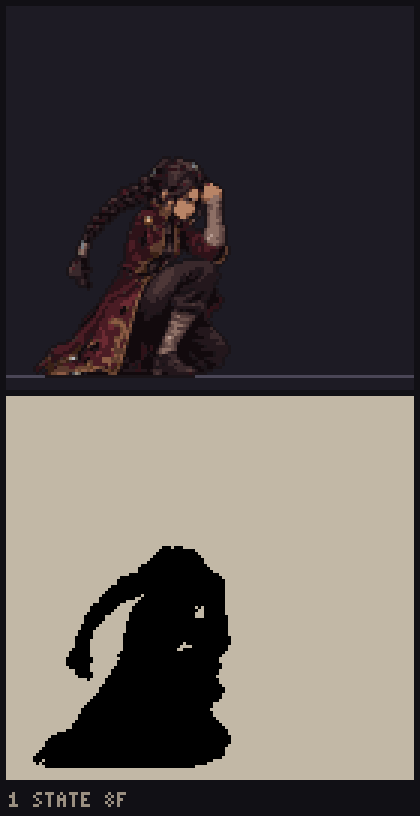
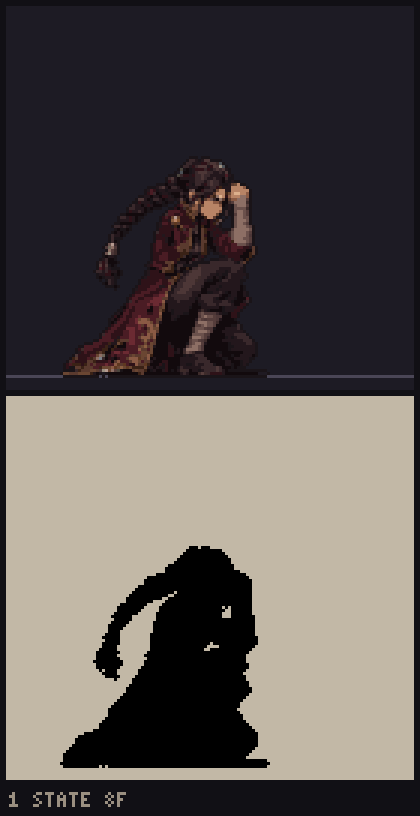
Regenerated idle in the game (warm skin, bronze trim); floor bands that join figures are stripped, lying bodies keep their underside
- stripFloorLine: tolerates a ragged bottom edge and one band joining several figures; a row
  only counts when it is much wider than the body above or juts past it (only feet touch the
  floor), so a dark body lying on the floor is never cut; only near-black/grey pixels removed
- idle reviewed (skin 11%, was 6-7%); tests for joined bands and lying bodies

Claude-Session: https://claude.ai/code/session_01AKGexPXdP4PDQG8Yjd4zZT

diff --git a/tools/art/convert.ts b/tools/art/convert.ts
@@ -282,11 +282,13 @@ export function defringe(img: Rgba, ring = 2): Rgba {
 }
 
 /**
- * Floor lines: image models often draw a thin near-black ground line under each figure. From the
- * figure's bottom upward, a row is part of the line while it spans at least 50% of the figure's
- * width and at least 85% of its pixels are near-black or grey (the line and its anti-aliased
- * edges); boot rows are too narrow and coat rows too red, so the first of those stops it.
- * Returns the number of rows removed.
+ * Floor lines: image models often draw a near-black ground line or shadow band under the figures
+ * (sometimes one band joining all of them). Within `maxRows` of the figure's bottom, a row is
+ * line-like when it spans at least 50% of the figure's width, at least 85% of its pixels are
+ * near-black or grey, and it covers 1.5 times the width of the row 8% of the figure's height above
+ * (only feet touch the floor; a body lying there is as wide higher up); ragged rows are allowed (scanning stops after 3 rows in a row
+ * that aren't line-like). From the highest line-like row down, the near-black and grey pixels
+ * leave the mask (boot colours stay). Returns the number of rows cleared.
  */
 export function stripFloorLine(img: Rgba, mask: Uint8Array, fig: Figure, maxRows: number): number {
   const { x0, x1, y0, y1 } = fig.box;
@@ -296,21 +298,57 @@ export function stripFloorLine(img: Rgba, mask: Uint8Array, fig: Figure, maxRows
     const b = img.data[i * 4 + 2]!;
     return Math.max(r, g, b) <= 70 || Math.max(r, g, b) - Math.min(r, g, b) <= 16;
   };
-  let removed = 0;
-  for (let y = y1 - 1; y >= y0 && removed < maxRows; y--) {
+  const coverage = (y: number) => {
     let n = 0;
     let like = 0;
+    let lo = x1;
+    let hi = x0 - 1;
     for (let x = x0; x < x1; x++) {
       const i = y * img.w + x;
       if (!mask[i]) continue;
       n++;
+      lo = Math.min(lo, x);
+      hi = Math.max(hi, x);
       if (lineLike(i)) like++;
     }
-    if (n < (x1 - x0) * 0.5 || like < n * 0.85) break;
-    for (let x = x0; x < x1; x++) mask[y * img.w + x] = 0;
-    removed++;
+    return { n, like, lo, hi };
+  };
+  /** Does row y stick out past everything in the `ref` rows above it (a line drawn wider than the figure)? */
+  const juts = (y: number, lo: number, hi: number) => {
+    let alo = x1;
+    let ahi = x0 - 1;
+    for (let yy = Math.max(y0, y - ref); yy < y; yy++) {
+      const c = coverage(yy);
+      alo = Math.min(alo, c.lo);
+      ahi = Math.max(ahi, c.hi);
+    }
+    const m = Math.max(2, Math.round((x1 - x0) * 0.03));
+    return lo < alo - m || hi > ahi + m;
+  };
+  // A band is much wider than what stands on it (only feet touch the floor); a body lying on the
+  // floor is as wide at its bottom as a little higher up. Ragged rows must show that contrast.
+  const ref = Math.max(2, Math.round((y1 - y0) * 0.08));
+  let top = -1;
+  let misses = 0;
+  for (let y = y1 - 1; y >= Math.max(y0, y1 - maxRows); y--) {
+    const { n, like, lo, hi } = coverage(y);
+    const base = n >= (x1 - x0) * 0.5 && like >= n * 0.85;
+    const wider = base && y - ref >= y0 && (n >= coverage(y - ref).n * 1.5 || juts(y, lo, hi));
+    if (base && wider) {
+      top = y;
+      misses = 0;
+    } else {
+      if (top >= 0 && ++misses >= 3) break;
+      if (top < 0 && y1 - y > 6) break;
+    }
   }
-  return removed;
+  if (top < 0) return 0;
+  for (let y = top; y < y1; y++)
+    for (let x = x0; x < x1; x++) {
+      const i = y * img.w + x;
+      if (mask[i] && lineLike(i)) mask[i] = 0;
+    }
+  return y1 - top;
 }
 
 /**

diff --git a/tests/converter.test.ts b/tests/converter.test.ts
@@ -267,3 +267,28 @@ describe('accents', () => {
     expect(s.px[1 * 4 + 1]).toBe(eye);
   });
 });
+
+describe('floor bands', () => {
+  it('one shadow band joining several figures is stripped, so they split apart', () => {
+    const img = whiteSheet(120, 60);
+    for (const x0 of [10, 50, 90]) {
+      rect(img, x0, 5, 16, 40, [90, 20, 30]);
+      rect(img, x0 - 2, 45, 6, 5, [100, 70, 60]); // boots
+      rect(img, x0 + 12, 45, 6, 5, [100, 70, 60]);
+    }
+    rect(img, 4, 50, 112, 4, [35, 25, 30]); // one band under all three
+    rect(img, 30, 54, 40, 1, [180, 180, 180]); // ragged grey bottom edge
+    const mask = foregroundMask(img);
+    expect(splitFigures(mask, 120, 60).length).toBe(1);
+    stripFloorLine(img, mask, splitFigures(mask, 120, 60)[0]!, 10);
+    expect(splitFigures(mask, 120, 60).length).toBe(3);
+  });
+  it('a dark body lying on the floor keeps its underside', () => {
+    const img = whiteSheet(80, 40);
+    rect(img, 10, 20, 60, 6, [90, 20, 30]); // lying coat
+    rect(img, 10, 26, 60, 4, [40, 30, 35]); // dark trousers and hair along the floor
+    const mask = foregroundMask(img);
+    stripFloorLine(img, mask, splitFigures(mask, 80, 40)[0]!, 10);
+    expect(mask[27 * 80 + 30]).toBe(1);
+  });
+});

diff --git a/docs/art_review/rook_batch_02.md b/docs/art_review/rook_batch_02.md
@@ -10,34 +10,34 @@ Scale 0.2134 (anchor → 108 px). Image `3e3a404f8f4a` (`rook_intro_01.jpeg`).
 
 | # | Pose | Size | Colour error (mean / p95 ΔE) | Colours | Checks | Visual | Verdict |
 | --- | --- | --- | --- | --- | --- | --- | --- |
-| 1 | anchor | 82x108 | 4.0 / 7.6 | coat 24%, gold 3%, skin 11%, darks 49%, wraps 10% | ok | ok | PASS |
-| 2 | intro 0 | 47x112 | 4.1 / 8.2 | coat 29%, gold 3%, skin 11%, darks 42%, wraps 13% | ok | ok | PASS |
+| 1 | anchor | 82x108 | 4.0 / 7.6 | coat 25%, gold 3%, skin 11%, darks 49%, wraps 10% | ok | ok | PASS |
+| 2 | intro 0 | 47x110 | 4.2 / 8.3 | coat 29%, gold 4%, skin 11%, darks 40%, wraps 13% | ok | ok | PASS |
 | 3 | intro 1 | 56x112 | 4.1 / 8.1 | coat 29%, gold 4%, skin 11%, darks 41%, wraps 12% | ok | ok | PASS |
 | 4 | intro 2 | 65x104 | 4.0 / 7.8 | coat 25%, gold 3%, skin 10%, darks 50%, wraps 10% | ok | ok | PASS |
 | 5 | intro 3 | 75x108 | 4.0 / 7.7 | coat 26%, gold 4%, skin 11%, darks 48%, wraps 10% | ok | ok | PASS |
 
 ## rook_b02_01.png
 
-Scale 0.1971 (anchor → 108 px). Image `d7f6a12ce2aa` (`rook_b02_01.jpeg`).
+Scale 0.1946 (anchor → 108 px). Image `d7f6a12ce2aa` (`rook_b02_01.jpeg`).
 
 | # | Pose | Size | Colour error (mean / p95 ΔE) | Colours | Checks | Visual | Verdict |
 | --- | --- | --- | --- | --- | --- | --- | --- |
-| 1 | anchor | 80x108 | 4.2 / 7.8 | coat 24%, gold 4%, skin 11%, darks 44%, wraps 12% | ok | ok | PASS |
-| 2 | crouch 0 | 65x87 | 4.2 / 8.1 | coat 24%, gold 3%, skin 11%, darks 47%, wraps 11% | ok | ok | PASS |
-| 3 | crouch 1 | 67x73 | 4.1 / 8.1 | coat 25%, gold 3%, skin 9%, darks 52%, wraps 8% | ok | ok | PASS |
-| 4 | block_crouch 0 | 64x72 | 4.2 / 8.1 | coat 24%, gold 2%, skin 9%, darks 52%, wraps 9% | ok | ok | PASS |
+| 1 | anchor | 78x107 | 4.2 / 7.9 | coat 24%, gold 4%, skin 12%, darks 45%, wraps 12% | ok | ok | PASS |
+| 2 | crouch 0 | 62x85 | 4.3 / 8.0 | coat 23%, gold 3%, skin 11%, darks 47%, wraps 10% | ok | ok | PASS |
+| 3 | crouch 1 | 68x72 | 4.1 / 8.0 | coat 25%, gold 3%, skin 9%, darks 51%, wraps 8% | ok | ok | PASS |
+| 4 | block_crouch 0 | 68x72 | 4.1 / 7.9 | coat 24%, gold 3%, skin 9%, darks 52%, wraps 9% | ok | ok | PASS |
 
 ## rook_b02_02.png
 
-Scale 0.2333 (anchor → 108 px). Image `10d4827a9627` (`rook_b02_02.jpeg`).
+Scale 0.2328 (anchor → 108 px). Image `10d4827a9627` (`rook_b02_02.jpeg`).
 
 | # | Pose | Size | Colour error (mean / p95 ΔE) | Colours | Checks | Visual | Verdict |
 | --- | --- | --- | --- | --- | --- | --- | --- |
-| 1 | anchor | 76x108 | 4.0 / 7.7 | coat 23%, gold 4%, skin 10%, darks 50%, wraps 11% | ok | ok | PASS |
-| 2 | block_stand 0 | 70x106 | 4.0 / 7.7 | coat 22%, gold 3%, skin 11%, darks 50%, wraps 11% | ok | ok | PASS |
-| 3 | blockstun_stand 0 | 65x102 | 4.0 / 7.8 | coat 25%, gold 2%, skin 10%, darks 49%, wraps 12% | ok | ok | PASS |
-| 4 | hitstun_high 0 | 70x102 | 4.2 / 8.3 | coat 25%, gold 3%, skin 12%, darks 48%, wraps 10% | ok | ok | PASS |
-| 5 | hitstun_high 1 | 65x105 | 4.1 / 7.9 | coat 24%, gold 4%, skin 11%, darks 48%, wraps 10% | ok | ok | PASS |
+| 1 | anchor | 76x107 | 4.1 / 7.7 | coat 23%, gold 3%, skin 11%, darks 50%, wraps 11% | ok | ok | PASS |
+| 2 | block_stand 0 | 70x106 | 4.0 / 7.5 | coat 23%, gold 3%, skin 11%, darks 49%, wraps 12% | ok | ok | PASS |
+| 3 | blockstun_stand 0 | 62x101 | 4.1 / 7.8 | coat 25%, gold 2%, skin 10%, darks 49%, wraps 12% | ok | ok | PASS |
+| 4 | hitstun_high 0 | 72x104 | 4.2 / 8.4 | coat 25%, gold 3%, skin 12%, darks 48%, wraps 10% | ok | ok | PASS |
+| 5 | hitstun_high 1 | 66x105 | 4.1 / 8.0 | coat 23%, gold 4%, skin 12%, darks 49%, wraps 10% | ok | ok | PASS |
 
 ## rook_b02_03.png
 
@@ -45,31 +45,31 @@ Scale 0.2517 (anchor → 108 px). Image `0904d151a45c` (`rook_b02_03.png`).
 
 | # | Pose | Size | Colour error (mean / p95 ΔE) | Colours | Checks | Visual | Verdict |
 | --- | --- | --- | --- | --- | --- | --- | --- |
-| 1 | anchor | 76x108 | 4.3 / 7.7 | coat 23%, gold 4%, skin 10%, darks 50%, wraps 11% | ok | ok | PASS |
-| 2 | hitstun_mid 0 | 57x85 | 4.3 / 8.3 | coat 19%, gold 1%, skin 6%, darks 60%, wraps 14% | ok | ok | PASS |
-| 3 | hitstun_mid 1 | 74x101 | 4.2 / 7.6 | coat 22%, gold 3%, skin 9%, darks 52%, wraps 12% | ok | ok | PASS |
+| 1 | anchor | 77x108 | 4.3 / 7.6 | coat 24%, gold 4%, skin 10%, darks 49%, wraps 11% | ok | ok | PASS |
+| 2 | hitstun_mid 0 | 57x86 | 4.3 / 8.3 | coat 19%, gold 1%, skin 6%, darks 59%, wraps 14% | ok | ok | PASS |
+| 3 | hitstun_mid 1 | 74x101 | 4.3 / 7.6 | coat 22%, gold 3%, skin 10%, darks 51%, wraps 11% | ok | ok | PASS |
 | 4 | knockdown 0 | 91x101 | 4.1 / 7.7 | coat 23%, gold 4%, skin 8%, darks 53%, wraps 10% | ok | ok | PASS |
-| 5 | knockdown 1 | 101x24 | 4.1 / 8.0 | coat 20%, gold 3%, skin 9%, darks 50%, wraps 15% | ok | ok | PASS |
+| 5 | knockdown 1 | 101x24 | 4.1 / 8.1 | coat 20%, gold 3%, skin 9%, darks 50%, wraps 16% | ok | ok | PASS |
 
 ## rook_wake_up_01.png
 
-Scale 0.2204 (anchor → 108 px). Image `2b1567359bca` (`rook_wake_up_01.jpeg`).
+Scale 0.2191 (anchor → 108 px). Image `2b1567359bca` (`rook_wake_up_01.jpeg`).
 
 | # | Pose | Size | Colour error (mean / p95 ΔE) | Colours | Checks | Visual | Verdict |
 | --- | --- | --- | --- | --- | --- | --- | --- |
-| 1 | anchor | 82x108 | 4.5 / 8.1 | coat 31%, gold 4%, skin 10%, darks 44%, wraps 9% | ok | ok | PASS |
-| 2 | wake_up 0 | 79x66 | 4.5 / 8.2 | coat 31%, gold 2%, skin 8%, darks 47%, wraps 9% | ok | ok | PASS |
-| 3 | wake_up 1 | 70x80 | 4.2 / 7.9 | coat 28%, gold 3%, skin 7%, darks 51%, wraps 8% | ok | ok | PASS |
-| 4 | wake_up 2 | 69x100 | 4.5 / 8.2 | coat 30%, gold 4%, skin 10%, darks 45%, wraps 9% | ok | ok | PASS |
+| 1 | anchor | 81x107 | 4.5 / 8.2 | coat 32%, gold 4%, skin 10%, darks 43%, wraps 9% | ok | ok | PASS |
+| 2 | wake_up 0 | 83x67 | 4.4 / 8.2 | coat 31%, gold 2%, skin 6%, darks 48%, wraps 10% | ok | ok | PASS |
+| 3 | wake_up 1 | 70x81 | 4.2 / 7.9 | coat 27%, gold 3%, skin 7%, darks 51%, wraps 8% | ok | ok | PASS |
+| 4 | wake_up 2 | 69x100 | 4.5 / 8.2 | coat 29%, gold 4%, skin 10%, darks 45%, wraps 9% | ok | ok | PASS |
 
 ## rook_ko_01.png
 
-Scale 0.2318 (anchor → 108 px). Image `4a86415aa92f` (`rook_ko_01.jpeg`).
+Scale 0.2298 (anchor → 108 px). Image `4a86415aa92f` (`rook_ko_01.jpeg`).
 
 | # | Pose | Size | Colour error (mean / p95 ΔE) | Colours | Checks | Visual | Verdict |
 | --- | --- | --- | --- | --- | --- | --- | --- |
-| 1 | anchor | 77x107 | 4.2 / 7.9 | coat 26%, gold 3%, skin 11%, darks 49%, wraps 10% | ok | ok | PASS |
-| 2 | ko 0 | 62x98 | 4.3 / 8.3 | coat 29%, gold 2%, skin 10%, darks 47%, wraps 10% | ok | ok | PASS |
-| 3 | ko 1 | 71x72 | 4.1 / 7.9 | coat 26%, gold 2%, skin 8%, darks 53%, wraps 8% | ok | ok | PASS |
-| 4 | ko 2 | 120x26 | 4.4 / 7.9 | coat 41%, gold 1%, skin 5%, darks 39%, wraps 12% | ok | ok | PASS |
+| 1 | anchor | 77x108 | 4.3 / 7.8 | coat 26%, gold 3%, skin 11%, darks 49%, wraps 10% | ok | ok | PASS |
+| 2 | ko 0 | 62x98 | 4.3 / 8.2 | coat 28%, gold 2%, skin 10%, darks 48%, wraps 10% | ok | ok | PASS |
+| 3 | ko 1 | 71x71 | 4.1 / 8.0 | coat 27%, gold 2%, skin 8%, darks 52%, wraps 9% | ok | ok | PASS |
+| 4 | ko 2 | 122x27 | 4.2 / 7.8 | coat 38%, gold 1%, skin 5%, darks 43%, wraps 11% | ok | ok | PASS |
 

diff --git a/docs/art_review/rook_batch_01.md b/docs/art_review/rook_batch_01.md
@@ -6,15 +6,15 @@ Canonical rook: 79x108 px; coat 24%, gold 5%, skin 9%, darks 49%, wraps 10%.
 
 ## rook_idle_01.png
 
-Scale 0.2007 (anchor → 108 px). Image `222e6a4d5500` (`rook_idle_01.png`).
+Scale 0.2049 (anchor → 108 px). Image `3c8baa8432bc` (`rook_idle_01.jpeg`).
 
 | # | Pose | Size | Colour error (mean / p95 ΔE) | Colours | Checks | Visual | Verdict |
 | --- | --- | --- | --- | --- | --- | --- | --- |
-| 1 | anchor | 78x107 | 4.6 / 8.7 | coat 23%, gold 2%, skin 8%, darks 52%, wraps 15% | warning: wraps 15% (reference 10%) | ok | PASS |
-| 2 | idle 0 | 77x108 | 4.6 / 8.8 | coat 22%, gold 2%, skin 7%, darks 52%, wraps 16% | ok | ok | PASS |
-| 3 | idle 1 | 79x107 | 4.6 / 8.7 | coat 23%, gold 2%, skin 7%, darks 52%, wraps 16% | ok | ok | PASS |
-| 4 | idle 2 | 80x110 | 4.7 / 8.9 | coat 23%, gold 1%, skin 7%, darks 52%, wraps 16% | ok | ok | PASS |
-| 5 | idle 3 | 77x108 | 4.6 / 8.6 | coat 23%, gold 1%, skin 7%, darks 52%, wraps 16% | ok | ok | PASS |
+| 1 | anchor | 68x107 | 4.0 / 7.6 | coat 22%, gold 5%, skin 11%, darks 48%, wraps 11% | warning: anchor width 68 px (canonical 79) | ok | PASS |
+| 2 | idle 0 | 61x108 | 4.0 / 7.7 | coat 23%, gold 4%, skin 11%, darks 48%, wraps 11% | ok | ok | PASS |
+| 3 | idle 1 | 62x107 | 4.0 / 7.6 | coat 22%, gold 4%, skin 11%, darks 49%, wraps 11% | ok | ok | PASS |
+| 4 | idle 2 | 62x108 | 4.0 / 7.7 | coat 21%, gold 4%, skin 12%, darks 50%, wraps 10% | ok | ok | PASS |
+| 5 | idle 3 | 65x108 | 4.0 / 7.6 | coat 23%, gold 4%, skin 11%, darks 48%, wraps 11% | ok | ok | PASS |
 
 ## rook_walk_forward_01.png
 
